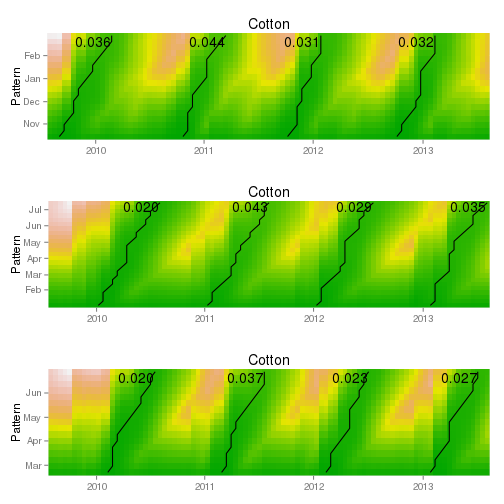
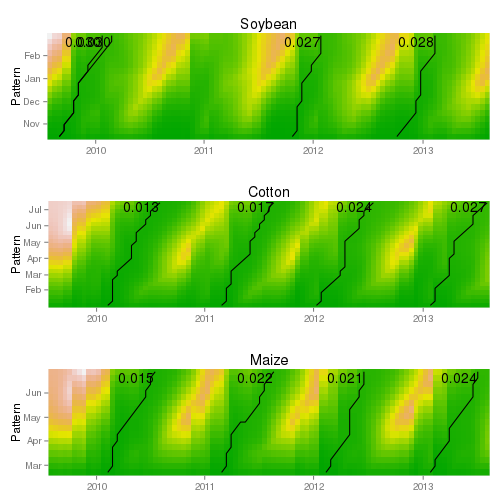
Update documentation

diff --git a/README.md b/README.md
@@ -54,6 +54,7 @@ Plot alignments
 
 ```r
 library(dtwSat)
+library(ggplot2)
 library(gridExtra)
 gp1 = plot(alig, type="alignment", attribute="evi", alignment=1, shift=0.5) + 
           ggtitle("Alignment 1") +
@@ -71,63 +72,85 @@ Plot path for all classese
 
 ```r
 library(dtwSat)
+library(ggplot)
+```
+
+```
+## Error in library(ggplot): there is no package called 'ggplot'
+```
+
+```r
 library(gridExtra)
 gp.list = lapply(query.list, function(query){
-  				alig = twdtw(query, template, weight = "logistic", alpha = 0.1, beta = 50,
-  				             alignments = 4, keep = TRUE)
+  				alig = twdtw(query, template, weight = "logistic", alpha = 0.1, 
+  				             beta = 100, alignments = 4, keep = TRUE)
   				plot(alig, normalize = TRUE, show.dist = TRUE) + 
-  				  ggtitle(names(query.list)[2]) +   
   				  theme(axis.title.x=element_blank(),
   				        legend.position="none")
 })
-grid.arrange(gp.list[[1]],
-             gp.list[[2]],
-             gp.list[[3]],
+grid.arrange(gp.list[[1]] + ggtitle(names(query.list)[1]),
+             gp.list[[2]] + ggtitle(names(query.list)[2]),
+             gp.list[[3]] + ggtitle(names(query.list)[3]),
              nrow=3)
 ```
 
 ![plot of chunk define-demo-plot-paths](figure/define-demo-plot-paths-1.png) 
 
+Plot classification
 
-<ol>
-   <li>Plot classification:
- 		<code>
-			malig = mtwdtw(query.list, template, weight = "logistic", 
-               alpha = 0.1, beta = 100)
+```r
+library(dtwSat)
+library(ggplot2)
+library(gridExtra)
+malig = mtwdtw(query.list, template, weight = "logistic", 
+        alpha = 0.1, beta = 100)
  
-      gp = plot(x=malig, type="classify", attribute="evi", from=as.Date("2009-09-01"),  
-              to=as.Date("2013-09-01"), by = "6 month",
-              normalized=TRUE, overlap=.7) 
-      gp
-      </code>
-  </li>
-</ol>
-![alt text](README-classify.png "Classification plot")
+gp1 = plot(x=malig, type="classify", from=as.Date("2009-09-01"),  
+     to=as.Date("2013-09-01"), by = "6 month",
+     normalized=TRUE, overlap=.7) 
+
+gp2 = plot(x=malig, type="classify", attribute = c("evi","ndvi"),
+           from=as.Date("2009-09-01"), to=as.Date("2013-09-01"), 
+           by = "6 month", normalized=TRUE, overlap=.7)
+
+grid.arrange(gp1,gp2,nrow=2)
+```
+
+![plot of chunk define-demo-plot-classification](figure/define-demo-plot-classification-1.png) 
 
 
-<ol>
-  <li>Plot alignments: <code>
-	df = data.frame(Time=index(template), value=template$evi, variable="Raw")
-	df = rbind( df, data.frame(Time=index(sy), value=sy$evi, variable="Wavelet filter") )
-	gp = ggplot(df, aes(x=Time, y=value, group=variable, colour=variable)) +
-  		geom_line() + 
-  		theme(legend.position="bottom") +
+
+Plot wavelet smoothing
+
+```r
+library(dtwSat)
+library(ggplot2)
+library(reshape2)
+library(gridExtra)
+sy = waveletSmoothing(x=template, frequency=8, wf = "la8", J=1, 
+                      boundary = "periodic")
+df1 = data.frame(Time=index(template), value=template$evi, variable="Raw")
+df1 = rbind(df1, data.frame(Time=index(sy), value=sy$evi, variable="Wavelet filter") )
+gp1 = ggplot(df1, aes(x=Time, y=value, group=variable, colour=variable)) +
+   		geom_line() + 
+  		# theme(legend.position="bottom") +
   		ylab("EVI")
-	gp
-        </code>
-   </li>
-</ol>
-  
-![alt text](README-filter.png "Smoothing plot")
 
-<h3>How to build the package:</h3>
-<ol>
-	<li>Clone the project: <code>git clone https//github.com/vwmaus/dtwSat.git</code>.</li>
-	<li>Open Rstudio, go to File - Open Project and pick the file <code>dtwSat.Rproj</code>.</li>
-	<li>Install the required packages <code>install.packages(c("roxygen2", "testthat"))</code>.</li>
-	<li>Go to the <i>Build</i> tab in the upper-right panel and press the button <i>Build & Reload</i>. After this the package is ready to use.</li>
-	<li>You can also create a source package: Go to the <i>Build</i> tab, display the menu <i>More</i> and select the option <i>Build Source Package</i>.</li>
-</ol> 
+df2 = melt(data.frame(Time=index(sy), sy), id="Time")
+gp2 = ggplot(df2, aes(x=Time, y=value, group=variable, colour=variable)) +
+   		geom_line() + 
+  		ylab("Value") 
+gp2
+```
+
+![plot of chunk define-demo-plot-smoothing](figure/define-demo-plot-smoothing-1.png) 
+
+```r
+grid.arrange(gp1,gp2,nrow=2)
+```
+
+![plot of chunk define-demo-plot-smoothing](figure/define-demo-plot-smoothing-2.png) 
+
 
 
 
